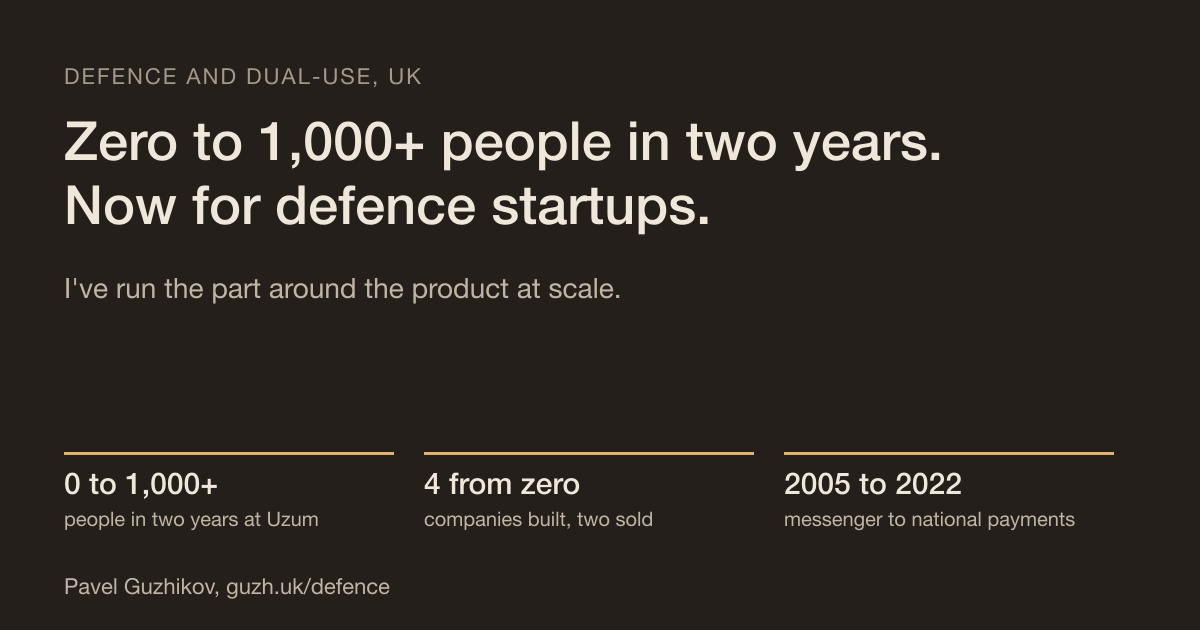
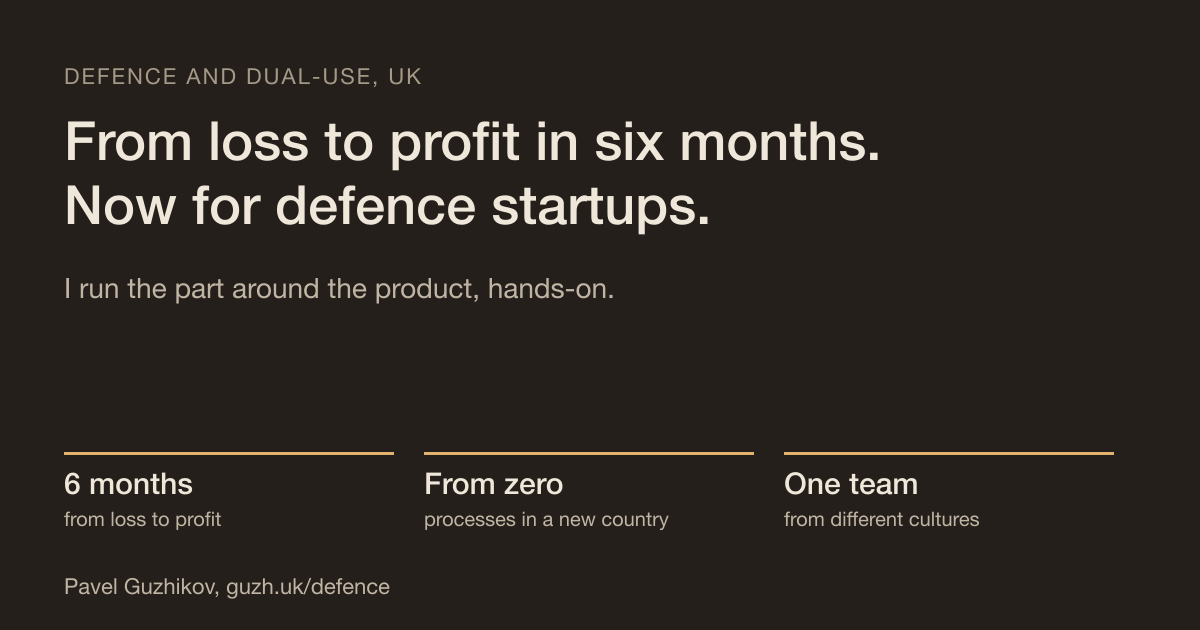
Lead the outreach pages with loss to profit, not headcount
Pavel, 17 Nov 2026: drop the "1,000+ people in two years" punch. The /defence/ and /pe/ pages, their share
cards and llms.txt now say what was hard: processes rebuilt from zero in a new country, one team out of
different cultures, loss to profit in six months. Page B's headline follows. The home page bio is unchanged.

diff --git a/defence/brief/index.html b/defence/brief/index.html
@@ -4,23 +4,23 @@
 <meta charset="utf-8">
 <meta name="viewport" content="width=device-width, initial-scale=1">
 <!-- Generated by tools/make-defence-pages.py. Edit there, not here. -->
-<title>From zero to 1,000+ people in two years. Now for defence startups | Pavel Guzhikov</title>
-<meta name="description" content="Pavel Guzhikov scaled Uzum from zero to 1,000+ people in two years and still ships his own code. He now helps UK defence and dual-use startups deliver after a raise or a contract.">
+<title>From loss to profit in six months. Now for defence startups | Pavel Guzhikov</title>
+<meta name="description" content="Pavel Guzhikov has taken a business from loss to profit in six months and rebuilt a company&#x27;s processes from zero in a new country, and still ships his own code. He now helps UK defence and dual-use startups deliver after a raise or a contract.">
 <link rel="canonical" href="https://guzh.uk/defence/brief/">
 <meta property="og:type" content="website">
 <meta property="og:url" content="https://guzh.uk/defence/brief/">
 <meta property="og:site_name" content="Pavel Guzhikov">
-<meta property="og:title" content="From zero to 1,000+ people in two years. Now for defence startups">
-<meta property="og:description" content="Pavel Guzhikov scaled Uzum from zero to 1,000+ people in two years and still ships his own code. He now helps UK defence and dual-use startups deliver after a raise or a contract.">
+<meta property="og:title" content="From loss to profit in six months. Now for defence startups">
+<meta property="og:description" content="Pavel Guzhikov has taken a business from loss to profit in six months and rebuilt a company&#x27;s processes from zero in a new country, and still ships his own code. He now helps UK defence and dual-use startups deliver after a raise or a contract.">
 <meta property="og:image" content="https://guzh.uk/assets/defence/proof-og.png">
 <meta property="og:image:width" content="1200">
 <meta property="og:image:height" content="630">
-<meta property="og:image:alt" content="From zero to 1,000+ people in two years. Now I do it for defence startups.">
+<meta property="og:image:alt" content="From loss to profit in six months. Now I do it for defence startups.">
 <meta name="twitter:card" content="summary_large_image">
-<meta name="twitter:title" content="From zero to 1,000+ people in two years. Now for defence startups">
-<meta name="twitter:description" content="Pavel Guzhikov scaled Uzum from zero to 1,000+ people in two years and still ships his own code. He now helps UK defence and dual-use startups deliver after a raise or a contract.">
+<meta name="twitter:title" content="From loss to profit in six months. Now for defence startups">
+<meta name="twitter:description" content="Pavel Guzhikov has taken a business from loss to profit in six months and rebuilt a company&#x27;s processes from zero in a new country, and still ships his own code. He now helps UK defence and dual-use startups deliver after a raise or a contract.">
 <meta name="twitter:image" content="https://guzh.uk/assets/defence/proof-og.png">
-<meta name="twitter:image:alt" content="From zero to 1,000+ people in two years. Now I do it for defence startups.">
+<meta name="twitter:image:alt" content="From loss to profit in six months. Now I do it for defence startups.">
 <meta name="theme-color" content="#F1EFE9" media="(prefers-color-scheme: light)">
 <meta name="theme-color" content="#241F1A" media="(prefers-color-scheme: dark)">
 <link rel="icon" href="/favicon.svg" type="image/svg+xml">
@@ -28,7 +28,7 @@
 <link rel="preconnect" href="https://fonts.googleapis.com">
 <link rel="preconnect" href="https://fonts.gstatic.com" crossorigin>
 <link href="https://fonts.googleapis.com/css2?family=Geist:wght@400;500;600&amp;display=swap" rel="stylesheet">
-<script type="application/ld+json">{"@context": "https://schema.org", "@type": "Service", "name": "From zero to 1,000+ people in two years. Now for defence startups", "description": "Pavel Guzhikov scaled Uzum from zero to 1,000+ people in two years and still ships his own code. He now helps UK defence and dual-use startups deliver after a raise or a contract.", "url": "https://guzh.uk/defence/brief/", "areaServed": "GB", "serviceType": "Delivery, product and scale-up partner for defence and dual-use technology companies", "provider": {"@type": "Person", "name": "Pavel Guzhikov", "url": "https://guzh.uk/"}}</script>
+<script type="application/ld+json">{"@context": "https://schema.org", "@type": "Service", "name": "From loss to profit in six months. Now for defence startups", "description": "Pavel Guzhikov has taken a business from loss to profit in six months and rebuilt a company's processes from zero in a new country, and still ships his own code. He now helps UK defence and dual-use startups deliver after a raise or a contract.", "url": "https://guzh.uk/defence/brief/", "areaServed": "GB", "serviceType": "Delivery, product and scale-up partner for defence and dual-use technology companies", "provider": {"@type": "Person", "name": "Pavel Guzhikov", "url": "https://guzh.uk/"}}</script>
 <script>
 try { var t = localStorage.getItem("theme"); if (t === "light" || t === "dark") document.documentElement.setAttribute("data-theme", t); } catch (e) {}
 document.documentElement.classList.add("js");
@@ -264,13 +264,13 @@ main{max-width:1120px}
 <div class="hero">
 <div>
   <p class="kicker">Defence and dual-use, UK</p>
-  <h1>I've taken a company from zero to 1,000+ people in two years. Now I do it for defence startups.</h1>
-  <p class="sub">After a raise or a contract, the hard part is everything around the product. I've run that part at scale, and I still write the software myself.</p>
+  <h1>I've taken a business from loss to profit in six months. Now I do it for defence startups.</h1>
+  <p class="sub">After a raise or a contract, the hard part is everything around the product. I've run that part in a new country with a mixed team, and I still write the software myself.</p>
   <div class="row"><a class="btn" href="https://calendar.app.google/RG3g5WzxB3y9tXu39" target="_blank" rel="noopener noreferrer">Book 30 minutes</a><a class="btn ghost" href="mailto:pavel@guzh.uk">pavel@guzh.uk</a></div>
   <div class="facts">
-  <div class="fact"><b>0 to 1,000+</b><span>people in two years, founding team at Uzum, Uzbekistan's first unicorn</span></div>
-  <div class="fact"><b>4 from zero</b><span>companies built, two of them sold</span></div>
-  <div class="fact"><b>2005 to 2022</b><span>from a mobile messenger to national payment infrastructure</span></div>
+  <div class="fact"><b>6 months</b><span>from loss to profit, by fixing how the business runs</span></div>
+  <div class="fact"><b>From zero</b><span>processes rebuilt in a new country, with no infrastructure to lean on</span></div>
+  <div class="fact"><b>One team</b><span>out of people from different countries and cultures</span></div>
 </div>
 </div>
 <section class="picker" aria-labelledby="pick-h">
@@ -289,7 +289,7 @@ main{max-width:1120px}
 </section>
 </div>
 <h2>Who I am</h2>
-<p>Pavel Guzhikov, London. Twenty years of building companies, as founder and as the person who makes them run. I was on the founding team at Uzum, Uzbekistan's first unicorn: lending, payments, cards and a marketplace, millions of users and 1,000+ people in two years, in a market with no digital infrastructure. Before that I built fintech products with more than 100 banks, and founded and sold two companies. I am most interested now in problems where the technology is hard, the deployment is political and the stakes are national: defence and dual-use, sovereign infrastructure, public systems.</p>
+<p>Pavel Guzhikov, London. Twenty years of building companies, as founder and as the person who makes them run. I've rebuilt a company's processes from zero in a new country, brought teams from different cultures together into one, and taken a business from loss to profit in six months. I was on the founding team at Uzum, Uzbekistan's first unicorn: lending, payments, cards and a marketplace for millions of users, in a market with no digital infrastructure. Before that I built fintech products with more than 100 banks, and founded and sold two companies. I am most interested now in problems where the technology is hard, the deployment is political and the stakes are national: defence and dual-use, sovereign infrastructure, public systems.</p>
 
 <h2>Hands on, now</h2>
 <p class="muted">I write and ship the software myself. Two things I am building alongside, for society and the state:</p>

diff --git a/pe/index.html b/pe/index.html
@@ -5,20 +5,20 @@
 <meta name="viewport" content="width=device-width, initial-scale=1">
 <!-- Generated by tools/make-pe-page.py. Edit there, not here. -->
 <title>I make the 100-day plan happen in the British brands you buy | Pavel Guzhikov</title>
-<meta name="description" content="For private equity owners of British brands: precise management and execution inside the company you have just bought, hands-on beside management and measured weekly. Pavel Guzhikov: 1,000+ people in two years at Uzum.">
+<meta name="description" content="For private equity owners of British brands: precise management and execution inside the company you have just bought, hands-on beside management and measured weekly. Pavel Guzhikov: took a business from loss to profit in six months.">
 <link rel="canonical" href="https://guzh.uk/pe/">
 <meta property="og:type" content="website">
 <meta property="og:url" content="https://guzh.uk/pe/">
 <meta property="og:site_name" content="Pavel Guzhikov">
 <meta property="og:title" content="I make the 100-day plan happen in the British brands you buy">
-<meta property="og:description" content="For private equity owners of British brands: precise management and execution inside the company you have just bought, hands-on beside management and measured weekly. Pavel Guzhikov: 1,000+ people in two years at Uzum.">
+<meta property="og:description" content="For private equity owners of British brands: precise management and execution inside the company you have just bought, hands-on beside management and measured weekly. Pavel Guzhikov: took a business from loss to profit in six months.">
 <meta property="og:image" content="https://guzh.uk/assets/pe/pe-og.png">
 <meta property="og:image:width" content="1200">
 <meta property="og:image:height" content="630">
 <meta property="og:image:alt" content="I make the 100-day plan happen. Hands-on, beside management, measured weekly. For private equity owners of British brands.">
 <meta name="twitter:card" content="summary_large_image">
 <meta name="twitter:title" content="I make the 100-day plan happen in the British brands you buy">
-<meta name="twitter:description" content="For private equity owners of British brands: precise management and execution inside the company you have just bought, hands-on beside management and measured weekly. Pavel Guzhikov: 1,000+ people in two years at Uzum.">
+<meta name="twitter:description" content="For private equity owners of British brands: precise management and execution inside the company you have just bought, hands-on beside management and measured weekly. Pavel Guzhikov: took a business from loss to profit in six months.">
 <meta name="twitter:image" content="https://guzh.uk/assets/pe/pe-og.png">
 <meta name="twitter:image:alt" content="I make the 100-day plan happen. Hands-on, beside management, measured weekly. For private equity owners of British brands.">
 <meta name="theme-color" content="#F1EFE9" media="(prefers-color-scheme: light)">
@@ -28,7 +28,7 @@
 <link rel="preconnect" href="https://fonts.googleapis.com">
 <link rel="preconnect" href="https://fonts.gstatic.com" crossorigin>
 <link href="https://fonts.googleapis.com/css2?family=Geist:wght@400;500;600&amp;display=swap" rel="stylesheet">
-<script type="application/ld+json">{"@context": "https://schema.org", "@type": "Service", "name": "I make the 100-day plan happen in the British brands you buy", "description": "For private equity owners of British brands: precise management and execution inside the company you have just bought, hands-on beside management and measured weekly. Pavel Guzhikov: 1,000+ people in two years at Uzum.", "url": "https://guzh.uk/pe/", "areaServed": "GB", "serviceType": "Interim operating and execution partner for private equity portfolio companies", "provider": {"@type": "Person", "name": "Pavel Guzhikov", "url": "https://guzh.uk/"}}</script>
+<script type="application/ld+json">{"@context": "https://schema.org", "@type": "Service", "name": "I make the 100-day plan happen in the British brands you buy", "description": "For private equity owners of British brands: precise management and execution inside the company you have just bought, hands-on beside management and measured weekly. Pavel Guzhikov: took a business from loss to profit in six months.", "url": "https://guzh.uk/pe/", "areaServed": "GB", "serviceType": "Interim operating and execution partner for private equity portfolio companies", "provider": {"@type": "Person", "name": "Pavel Guzhikov", "url": "https://guzh.uk/"}}</script>
 <script>
 try { var t = localStorage.getItem("theme"); if (t === "light" || t === "dark") document.documentElement.setAttribute("data-theme", t); } catch (e) {}
 document.documentElement.classList.add("js");
@@ -269,9 +269,9 @@ main{max-width:1120px}
   <p class="sub">Precise management and execution inside the company you have just bought: hands-on beside management, measured weekly, so your deal team doesn't have to chase it.</p>
   <div class="row"><a class="btn" href="https://calendar.app.google/RG3g5WzxB3y9tXu39" target="_blank" rel="noopener noreferrer">Book 30 minutes</a><a class="btn ghost" href="mailto:pavel@guzh.uk">pavel@guzh.uk</a></div>
   <div class="facts">
-  <div class="fact"><b>0 to 1,000+</b><span>people in two years, founding team at Uzum, Uzbekistan's first unicorn</span></div>
-  <div class="fact"><b>4 from zero</b><span>companies built, two of them sold</span></div>
-  <div class="fact"><b>2005 to 2022</b><span>from a mobile messenger to national payment infrastructure</span></div>
+  <div class="fact"><b>6 months</b><span>from loss to profit, by fixing how the business runs</span></div>
+  <div class="fact"><b>From zero</b><span>processes rebuilt in a new country, with no infrastructure to lean on</span></div>
+  <div class="fact"><b>One team</b><span>out of people from different countries and cultures</span></div>
 </div>
 </div>
 <section class="picker" aria-labelledby="pick-h">
@@ -312,7 +312,7 @@ main{max-width:1120px}
 <p class="gh" id="gh">My code is public at <a href="https://github.com/xternal">github.com/xternal</a>.</p>
 
 <h2>Who I am</h2>
-<p>Pavel Guzhikov, London. Twenty years of building companies, as founder and as the person who makes them run. I was on the founding team at Uzum, Uzbekistan's first unicorn: lending, payments, cards and a marketplace, millions of users and 1,000+ people in two years, in a market with no digital infrastructure. Before that I built fintech products with more than 100 banks, and founded and sold two companies. I like businesses where a good product meets messy operations: that is where precise management pays back fastest.</p>
+<p>Pavel Guzhikov, London. Twenty years of building companies, as founder and as the person who makes them run. I've rebuilt a company's processes from zero in a new country, brought teams from different cultures together into one, and taken a business from loss to profit in six months. I was on the founding team at Uzum, Uzbekistan's first unicorn: lending, payments, cards and a marketplace for millions of users, in a market with no digital infrastructure. Before that I built fintech products with more than 100 banks, and founded and sold two companies. I like businesses where a good product meets messy operations: that is where precise management pays back fastest.</p>
 
 <h2>What stays yours</h2>
 <p>The thesis, the board and the brand. Management stays in charge: I work beside them as one of the team, not as the fund's auditor. You get a short weekly note: what moved, what is stuck, what needs a decision.</p>
@@ -331,7 +331,7 @@ main{max-width:1120px}
   <dt>Which companies?</dt>
   <dd>British brands from about 20 to a few hundred people, usually in the first year after an investment or during a buy-and-build.</dd>
   <dt>Why someone from fintech?</dt>
-  <dd>Because the arithmetic of growth is the same everywhere: too much to do, too few people, and processes built for ten carrying a hundred. I have run it at 1,000+ people in two years.</dd>
+  <dd>Because the arithmetic of growth is the same everywhere: too much to do, too few people, and processes built for ten carrying a hundred. I have rebuilt a company from zero in a new country and taken one from loss to profit in six months.</dd>
   <dt>Who do I report to?</dt>
   <dd>We agree that at the start: usually the operating partner, with management as my day-to-day team.</dd>
 </dl>

diff --git a/defence/index.html b/defence/index.html
@@ -5,20 +5,20 @@
 <meta name="viewport" content="width=device-width, initial-scale=1">
 <!-- Generated by tools/make-defence-pages.py. Edit there, not here. -->
 <title>I help UK defence startups turn a raise or a contract into delivery | Pavel Guzhikov</title>
-<meta name="description" content="Hiring, suppliers, production and paperwork, taken on hands-on from day one so your engineers stay on the product. Pavel Guzhikov: founding team at Uzum, 1,000+ people in two years.">
+<meta name="description" content="Hiring, suppliers, production and paperwork, taken on hands-on from day one so your engineers stay on the product. Pavel Guzhikov: took a business from loss to profit in six months.">
 <link rel="canonical" href="https://guzh.uk/defence/">
 <meta property="og:type" content="website">
 <meta property="og:url" content="https://guzh.uk/defence/">
 <meta property="og:site_name" content="Pavel Guzhikov">
 <meta property="og:title" content="I help UK defence startups turn a raise or a contract into delivery">
-<meta property="og:description" content="Hiring, suppliers, production and paperwork, taken on hands-on from day one so your engineers stay on the product. Pavel Guzhikov: founding team at Uzum, 1,000+ people in two years.">
+<meta property="og:description" content="Hiring, suppliers, production and paperwork, taken on hands-on from day one so your engineers stay on the product. Pavel Guzhikov: took a business from loss to profit in six months.">
 <meta property="og:image" content="https://guzh.uk/assets/defence/delivery-og.png">
 <meta property="og:image:width" content="1200">
 <meta property="og:image:height" content="630">
 <meta property="og:image:alt" content="I help UK defence startups turn a raise or a contract into delivery: hiring, suppliers, production, paperwork.">
 <meta name="twitter:card" content="summary_large_image">
 <meta name="twitter:title" content="I help UK defence startups turn a raise or a contract into delivery">
-<meta name="twitter:description" content="Hiring, suppliers, production and paperwork, taken on hands-on from day one so your engineers stay on the product. Pavel Guzhikov: founding team at Uzum, 1,000+ people in two years.">
+<meta name="twitter:description" content="Hiring, suppliers, production and paperwork, taken on hands-on from day one so your engineers stay on the product. Pavel Guzhikov: took a business from loss to profit in six months.">
 <meta name="twitter:image" content="https://guzh.uk/assets/defence/delivery-og.png">
 <meta name="twitter:image:alt" content="I help UK defence startups turn a raise or a contract into delivery: hiring, suppliers, production, paperwork.">
 <meta name="theme-color" content="#F1EFE9" media="(prefers-color-scheme: light)">
@@ -28,7 +28,7 @@
 <link rel="preconnect" href="https://fonts.googleapis.com">
 <link rel="preconnect" href="https://fonts.gstatic.com" crossorigin>
 <link href="https://fonts.googleapis.com/css2?family=Geist:wght@400;500;600&amp;display=swap" rel="stylesheet">
-<script type="application/ld+json">{"@context": "https://schema.org", "@type": "Service", "name": "I help UK defence startups turn a raise or a contract into delivery", "description": "Hiring, suppliers, production and paperwork, taken on hands-on from day one so your engineers stay on the product. Pavel Guzhikov: founding team at Uzum, 1,000+ people in two years.", "url": "https://guzh.uk/defence/", "areaServed": "GB", "serviceType": "Delivery, product and scale-up partner for defence and dual-use technology companies", "provider": {"@type": "Person", "name": "Pavel Guzhikov", "url": "https://guzh.uk/"}}</script>
+<script type="application/ld+json">{"@context": "https://schema.org", "@type": "Service", "name": "I help UK defence startups turn a raise or a contract into delivery", "description": "Hiring, suppliers, production and paperwork, taken on hands-on from day one so your engineers stay on the product. Pavel Guzhikov: took a business from loss to profit in six months.", "url": "https://guzh.uk/defence/", "areaServed": "GB", "serviceType": "Delivery, product and scale-up partner for defence and dual-use technology companies", "provider": {"@type": "Person", "name": "Pavel Guzhikov", "url": "https://guzh.uk/"}}</script>
 <script>
 try { var t = localStorage.getItem("theme"); if (t === "light" || t === "dark") document.documentElement.setAttribute("data-theme", t); } catch (e) {}
 document.documentElement.classList.add("js");
@@ -268,9 +268,9 @@ main{max-width:1120px}
   <p class="sub">Hiring, suppliers, production and paperwork, hands-on from day one, so your engineers stay on the product.</p>
   <div class="row"><a class="btn" href="https://calendar.app.google/RG3g5WzxB3y9tXu39" target="_blank" rel="noopener noreferrer">Book 30 minutes</a><a class="btn ghost" href="mailto:pavel@guzh.uk">pavel@guzh.uk</a></div>
   <div class="facts">
-  <div class="fact"><b>0 to 1,000+</b><span>people in two years, founding team at Uzum, Uzbekistan's first unicorn</span></div>
-  <div class="fact"><b>4 from zero</b><span>companies built, two of them sold</span></div>
-  <div class="fact"><b>2005 to 2022</b><span>from a mobile messenger to national payment infrastructure</span></div>
+  <div class="fact"><b>6 months</b><span>from loss to profit, by fixing how the business runs</span></div>
+  <div class="fact"><b>From zero</b><span>processes rebuilt in a new country, with no infrastructure to lean on</span></div>
+  <div class="fact"><b>One team</b><span>out of people from different countries and cultures</span></div>
 </div>
 </div>
 <section class="picker" aria-labelledby="pick-h">
@@ -311,7 +311,7 @@ main{max-width:1120px}
 <p class="gh" id="gh">My code is public at <a href="https://github.com/xternal">github.com/xternal</a>.</p>
 
 <h2>Who I am</h2>
-<p>Pavel Guzhikov, London. Twenty years of building companies, as founder and as the person who makes them run. I was on the founding team at Uzum, Uzbekistan's first unicorn: lending, payments, cards and a marketplace, millions of users and 1,000+ people in two years, in a market with no digital infrastructure. Before that I built fintech products with more than 100 banks, and founded and sold two companies. I am most interested now in problems where the technology is hard, the deployment is political and the stakes are national: defence and dual-use, sovereign infrastructure, public systems.</p>
+<p>Pavel Guzhikov, London. Twenty years of building companies, as founder and as the person who makes them run. I've rebuilt a company's processes from zero in a new country, brought teams from different cultures together into one, and taken a business from loss to profit in six months. I was on the founding team at Uzum, Uzbekistan's first unicorn: lending, payments, cards and a marketplace for millions of users, in a market with no digital infrastructure. Before that I built fintech products with more than 100 banks, and founded and sold two companies. I am most interested now in problems where the technology is hard, the deployment is political and the stakes are national: defence and dual-use, sovereign infrastructure, public systems.</p>
 
 <h2>What stays yours</h2>
 <p>The technology, the defence know-how, the clearances and the customer relationships. I work on the unclassified side: the machinery that turns funding and contracts into delivery. Where any part needs vetting, we say so plainly at the start.</p>

diff --git a/defence/route/index.html b/defence/route/index.html
@@ -268,9 +268,9 @@ main{max-width:1120px}
   <p class="sub">Pick the thing slowing your delivery most: hiring, a contract, production or trials. In two weeks it's mapped, a working fix is live, and you have a plain plan for the rest.</p>
   <div class="row"><a class="btn" href="https://calendar.app.google/RG3g5WzxB3y9tXu39" target="_blank" rel="noopener noreferrer">Book 30 minutes</a><a class="btn ghost" href="mailto:pavel@guzh.uk">pavel@guzh.uk</a></div>
   <div class="facts">
-  <div class="fact"><b>0 to 1,000+</b><span>people in two years, founding team at Uzum, Uzbekistan's first unicorn</span></div>
-  <div class="fact"><b>4 from zero</b><span>companies built, two of them sold</span></div>
-  <div class="fact"><b>2005 to 2022</b><span>from a mobile messenger to national payment infrastructure</span></div>
+  <div class="fact"><b>6 months</b><span>from loss to profit, by fixing how the business runs</span></div>
+  <div class="fact"><b>From zero</b><span>processes rebuilt in a new country, with no infrastructure to lean on</span></div>
+  <div class="fact"><b>One team</b><span>out of people from different countries and cultures</span></div>
 </div>
 </div>
 <section class="picker" aria-labelledby="pick-h">
@@ -318,7 +318,7 @@ main{max-width:1120px}
 <p class="gh" id="gh">My code is public at <a href="https://github.com/xternal">github.com/xternal</a>.</p>
 
 <h2>Who I am</h2>
-<p>Pavel Guzhikov, London. Twenty years of building companies, as founder and as the person who makes them run. I was on the founding team at Uzum, Uzbekistan's first unicorn: lending, payments, cards and a marketplace, millions of users and 1,000+ people in two years, in a market with no digital infrastructure. Before that I built fintech products with more than 100 banks, and founded and sold two companies. I am most interested now in problems where the technology is hard, the deployment is political and the stakes are national: defence and dual-use, sovereign infrastructure, public systems.</p>
+<p>Pavel Guzhikov, London. Twenty years of building companies, as founder and as the person who makes them run. I've rebuilt a company's processes from zero in a new country, brought teams from different cultures together into one, and taken a business from loss to profit in six months. I was on the founding team at Uzum, Uzbekistan's first unicorn: lending, payments, cards and a marketplace for millions of users, in a market with no digital infrastructure. Before that I built fintech products with more than 100 banks, and founded and sold two companies. I am most interested now in problems where the technology is hard, the deployment is political and the stakes are national: defence and dual-use, sovereign infrastructure, public systems.</p>
 
 <h2>What stays yours</h2>
 <p>The technology, the defence know-how, the clearances and the customer relationships. I work on the unclassified side: the machinery that turns funding and contracts into delivery. Where any part needs vetting, we say so plainly at the start.</p>

diff --git a/tools/make-defence-pages.py b/tools/make-defence-pages.py
@@ -4,7 +4,7 @@
     ./tools/make-defence-pages.py
 
   /defence/        delivery partner: what I take off your plate after a raise or a contract
-  /defence/brief/  proof: zero to 1,000+ people in two years, and what I am building now
+  /defence/brief/  proof: loss to profit in six months, and what I am building now
   /defence/route/  the offer: two weeks, one bottleneck, fixed and running
 
 Each email in the outreach links one of them (the CRM records which), so replies and bookings can be tied
@@ -95,9 +95,9 @@ PAGE_JS = r"""
 """
 
 FACTS = """<div class="facts">
-  <div class="fact"><b>0 to 1,000+</b><span>people in two years, founding team at Uzum, Uzbekistan's first unicorn</span></div>
-  <div class="fact"><b>4 from zero</b><span>companies built, two of them sold</span></div>
-  <div class="fact"><b>2005 to 2022</b><span>from a mobile messenger to national payment infrastructure</span></div>
+  <div class="fact"><b>6 months</b><span>from loss to profit, by fixing how the business runs</span></div>
+  <div class="fact"><b>From zero</b><span>processes rebuilt in a new country, with no infrastructure to lean on</span></div>
+  <div class="fact"><b>One team</b><span>out of people from different countries and cultures</span></div>
 </div>"""
 
 PLANS = [
@@ -170,7 +170,7 @@ HOW = """<h2>How we start</h2>
 </ol>"""
 
 WHO = """<h2>Who I am</h2>
-<p>Pavel Guzhikov, London. Twenty years of building companies, as founder and as the person who makes them run. I was on the founding team at Uzum, Uzbekistan's first unicorn: lending, payments, cards and a marketplace, millions of users and 1,000+ people in two years, in a market with no digital infrastructure. Before that I built fintech products with more than 100 banks, and founded and sold two companies. I am most interested now in problems where the technology is hard, the deployment is political and the stakes are national: defence and dual-use, sovereign infrastructure, public systems.</p>"""
+<p>Pavel Guzhikov, London. Twenty years of building companies, as founder and as the person who makes them run. I've rebuilt a company's processes from zero in a new country, brought teams from different cultures together into one, and taken a business from loss to profit in six months. I was on the founding team at Uzum, Uzbekistan's first unicorn: lending, payments, cards and a marketplace for millions of users, in a market with no digital infrastructure. Before that I built fintech products with more than 100 banks, and founded and sold two companies. I am most interested now in problems where the technology is hard, the deployment is political and the stakes are national: defence and dual-use, sovereign infrastructure, public systems.</p>"""
 
 FAQ = """<h2>Questions</h2>
 <dl class="faq">
@@ -200,7 +200,7 @@ PAGES = [
     {   # A: delivery partner
         "path": "defence/index.html", "url": "https://guzh.uk/defence/", "slug": "delivery",
         "title": "I help UK defence startups turn a raise or a contract into delivery",
-        "description": "Hiring, suppliers, production and paperwork, taken on hands-on from day one so your engineers stay on the product. Pavel Guzhikov: founding team at Uzum, 1,000+ people in two years.",
+        "description": "Hiring, suppliers, production and paperwork, taken on hands-on from day one so your engineers stay on the product. Pavel Guzhikov: took a business from loss to profit in six months.",
         "image_alt": "I help UK defence startups turn a raise or a contract into delivery: hiring, suppliers, production, paperwork.",
         "hero": f"""<div>
   <p class="kicker">Defence and dual-use, UK</p>
@@ -215,13 +215,13 @@ PAGES = [
     },
     {   # B: proof
         "path": "defence/brief/index.html", "url": "https://guzh.uk/defence/brief/", "slug": "proof",
-        "title": "From zero to 1,000+ people in two years. Now for defence startups",
-        "description": "Pavel Guzhikov scaled Uzum from zero to 1,000+ people in two years and still ships his own code. He now helps UK defence and dual-use startups deliver after a raise or a contract.",
-        "image_alt": "From zero to 1,000+ people in two years. Now I do it for defence startups.",
+        "title": "From loss to profit in six months. Now for defence startups",
+        "description": "Pavel Guzhikov has taken a business from loss to profit in six months and rebuilt a company's processes from zero in a new country, and still ships his own code. He now helps UK defence and dual-use startups deliver after a raise or a contract.",
+        "image_alt": "From loss to profit in six months. Now I do it for defence startups.",
         "hero": f"""<div>
   <p class="kicker">Defence and dual-use, UK</p>
-  <h1>I've taken a company from zero to 1,000+ people in two years. Now I do it for defence startups.</h1>
-  <p class="sub">After a raise or a contract, the hard part is everything around the product. I've run that part at scale, and I still write the software myself.</p>
+  <h1>I've taken a business from loss to profit in six months. Now I do it for defence startups.</h1>
+  <p class="sub">After a raise or a contract, the hard part is everything around the product. I've run that part in a new country with a mixed team, and I still write the software myself.</p>
   {buttons()}
   {FACTS}
 </div>""",

diff --git a/tools/make-pe-page.py b/tools/make-pe-page.py
@@ -55,7 +55,7 @@ HOW = """<h2>How we start</h2>
 </ol>"""
 
 WHO = """<h2>Who I am</h2>
-<p>Pavel Guzhikov, London. Twenty years of building companies, as founder and as the person who makes them run. I was on the founding team at Uzum, Uzbekistan's first unicorn: lending, payments, cards and a marketplace, millions of users and 1,000+ people in two years, in a market with no digital infrastructure. Before that I built fintech products with more than 100 banks, and founded and sold two companies. I like businesses where a good product meets messy operations: that is where precise management pays back fastest.</p>"""
+<p>Pavel Guzhikov, London. Twenty years of building companies, as founder and as the person who makes them run. I've rebuilt a company's processes from zero in a new country, brought teams from different cultures together into one, and taken a business from loss to profit in six months. I was on the founding team at Uzum, Uzbekistan's first unicorn: lending, payments, cards and a marketplace for millions of users, in a market with no digital infrastructure. Before that I built fintech products with more than 100 banks, and founded and sold two companies. I like businesses where a good product meets messy operations: that is where precise management pays back fastest.</p>"""
 
 FAQ = """<h2>Questions</h2>
 <dl class="faq">
@@ -64,7 +64,7 @@ FAQ = """<h2>Questions</h2>
   <dt>Which companies?</dt>
   <dd>British brands from about 20 to a few hundred people, usually in the first year after an investment or during a buy-and-build.</dd>
   <dt>Why someone from fintech?</dt>
-  <dd>Because the arithmetic of growth is the same everywhere: too much to do, too few people, and processes built for ten carrying a hundred. I have run it at 1,000+ people in two years.</dd>
+  <dd>Because the arithmetic of growth is the same everywhere: too much to do, too few people, and processes built for ten carrying a hundred. I have rebuilt a company from zero in a new country and taken one from loss to profit in six months.</dd>
   <dt>Who do I report to?</dt>
   <dd>We agree that at the start: usually the operating partner, with management as my day-to-day team.</dd>
 </dl>"""
@@ -72,7 +72,7 @@ FAQ = """<h2>Questions</h2>
 PAGE = {
     "path": "pe/index.html", "url": "https://guzh.uk/pe/", "slug": "pe",
     "title": "I make the 100-day plan happen in the British brands you buy",
-    "description": "For private equity owners of British brands: precise management and execution inside the company you have just bought, hands-on beside management and measured weekly. Pavel Guzhikov: 1,000+ people in two years at Uzum.",
+    "description": "For private equity owners of British brands: precise management and execution inside the company you have just bought, hands-on beside management and measured weekly. Pavel Guzhikov: took a business from loss to profit in six months.",
     "image_alt": "I make the 100-day plan happen. Hands-on, beside management, measured weekly. For private equity owners of British brands.",
     "hero": f"""<div>
   <p class="kicker">For private equity owners of British brands</p>

diff --git a/tools/make-defence-og.py b/tools/make-defence-og.py
@@ -25,12 +25,12 @@ def card(title, sub, facts):
             f'<text x="64" y="84" font-size="22" letter-spacing="2" fill="{INK3}">DEFENCE AND DUAL-USE, UK</text>{t}{s}{f}'
             f'<text x="64" y="594" font-size="22" fill="{INK2}">Pavel Guzhikov, guzh.uk/defence</text></svg>')
 
-FACTS = [("0 to 1,000+", "people in two years at Uzum"), ("4 from zero", "companies built, two sold"), ("2005 to 2022", "messenger to national payments")]
+FACTS = [("6 months", "from loss to profit"), ("From zero", "processes in a new country"), ("One team", "from different cultures")]
 cards = {
     "delivery-og.png": card(["I help defence startups turn a", "raise or a contract into delivery."],
                             ["Hiring, suppliers, production, paperwork. Hands-on."], FACTS),
-    "proof-og.png": card(["Zero to 1,000+ people in two years.", "Now for defence startups."],
-                         ["I've run the part around the product at scale."], FACTS),
+    "proof-og.png": card(["From loss to profit in six months.", "Now for defence startups."],
+                         ["I run the part around the product, hands-on."], FACTS),
     "twoweeks-og.png": card(["Two weeks. One bottleneck.", "Fixed and running."],
                             ["Hiring, a contract, production or trials: pick one."], FACTS),
 }

diff --git a/tools/make-pe-og.py b/tools/make-pe-og.py
@@ -25,7 +25,7 @@ def card(title, sub, facts):
             f'<text x="64" y="84" font-size="22" letter-spacing="2" fill="{INK3}">FOR PRIVATE EQUITY OWNERS OF BRITISH BRANDS</text>{t}{s}{f}'
             f'<text x="64" y="594" font-size="22" fill="{INK2}">Pavel Guzhikov, guzh.uk/pe</text></svg>')
 
-FACTS = [("0 to 1,000+", "people in two years at Uzum"), ("4 from zero", "companies built, two sold"), ("2005 to 2022", "messenger to national payments")]
+FACTS = [("6 months", "from loss to profit"), ("From zero", "processes in a new country"), ("One team", "from different cultures")]
 cards = {
     "pe-og.png": card(["I make the 100-day plan happen."],
                       ["Hands-on, beside management, measured weekly.", "In the British brands you buy."], FACTS),
